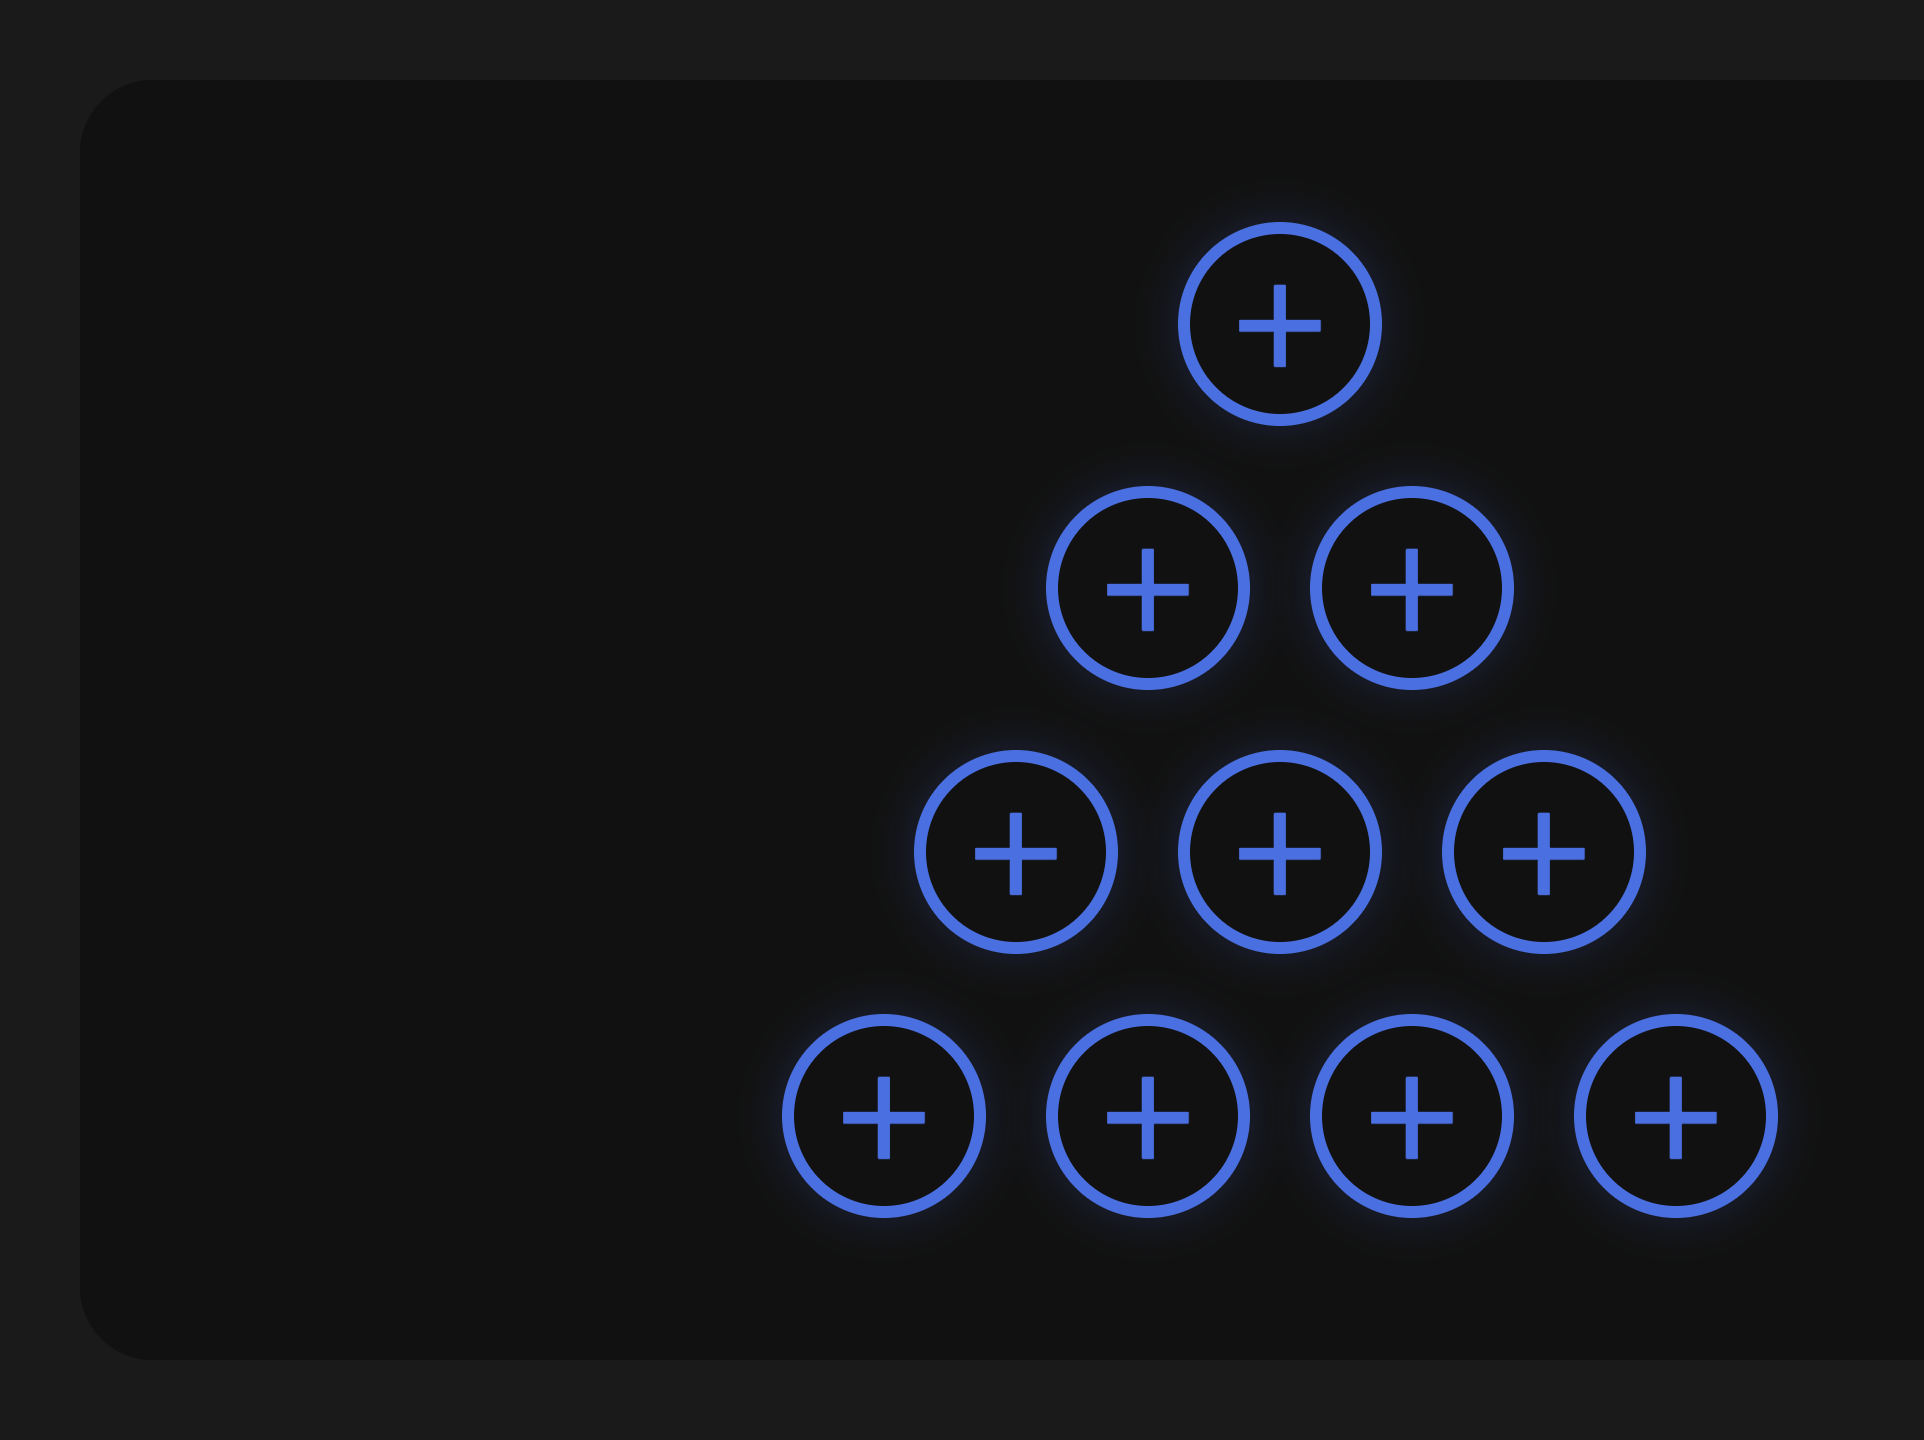
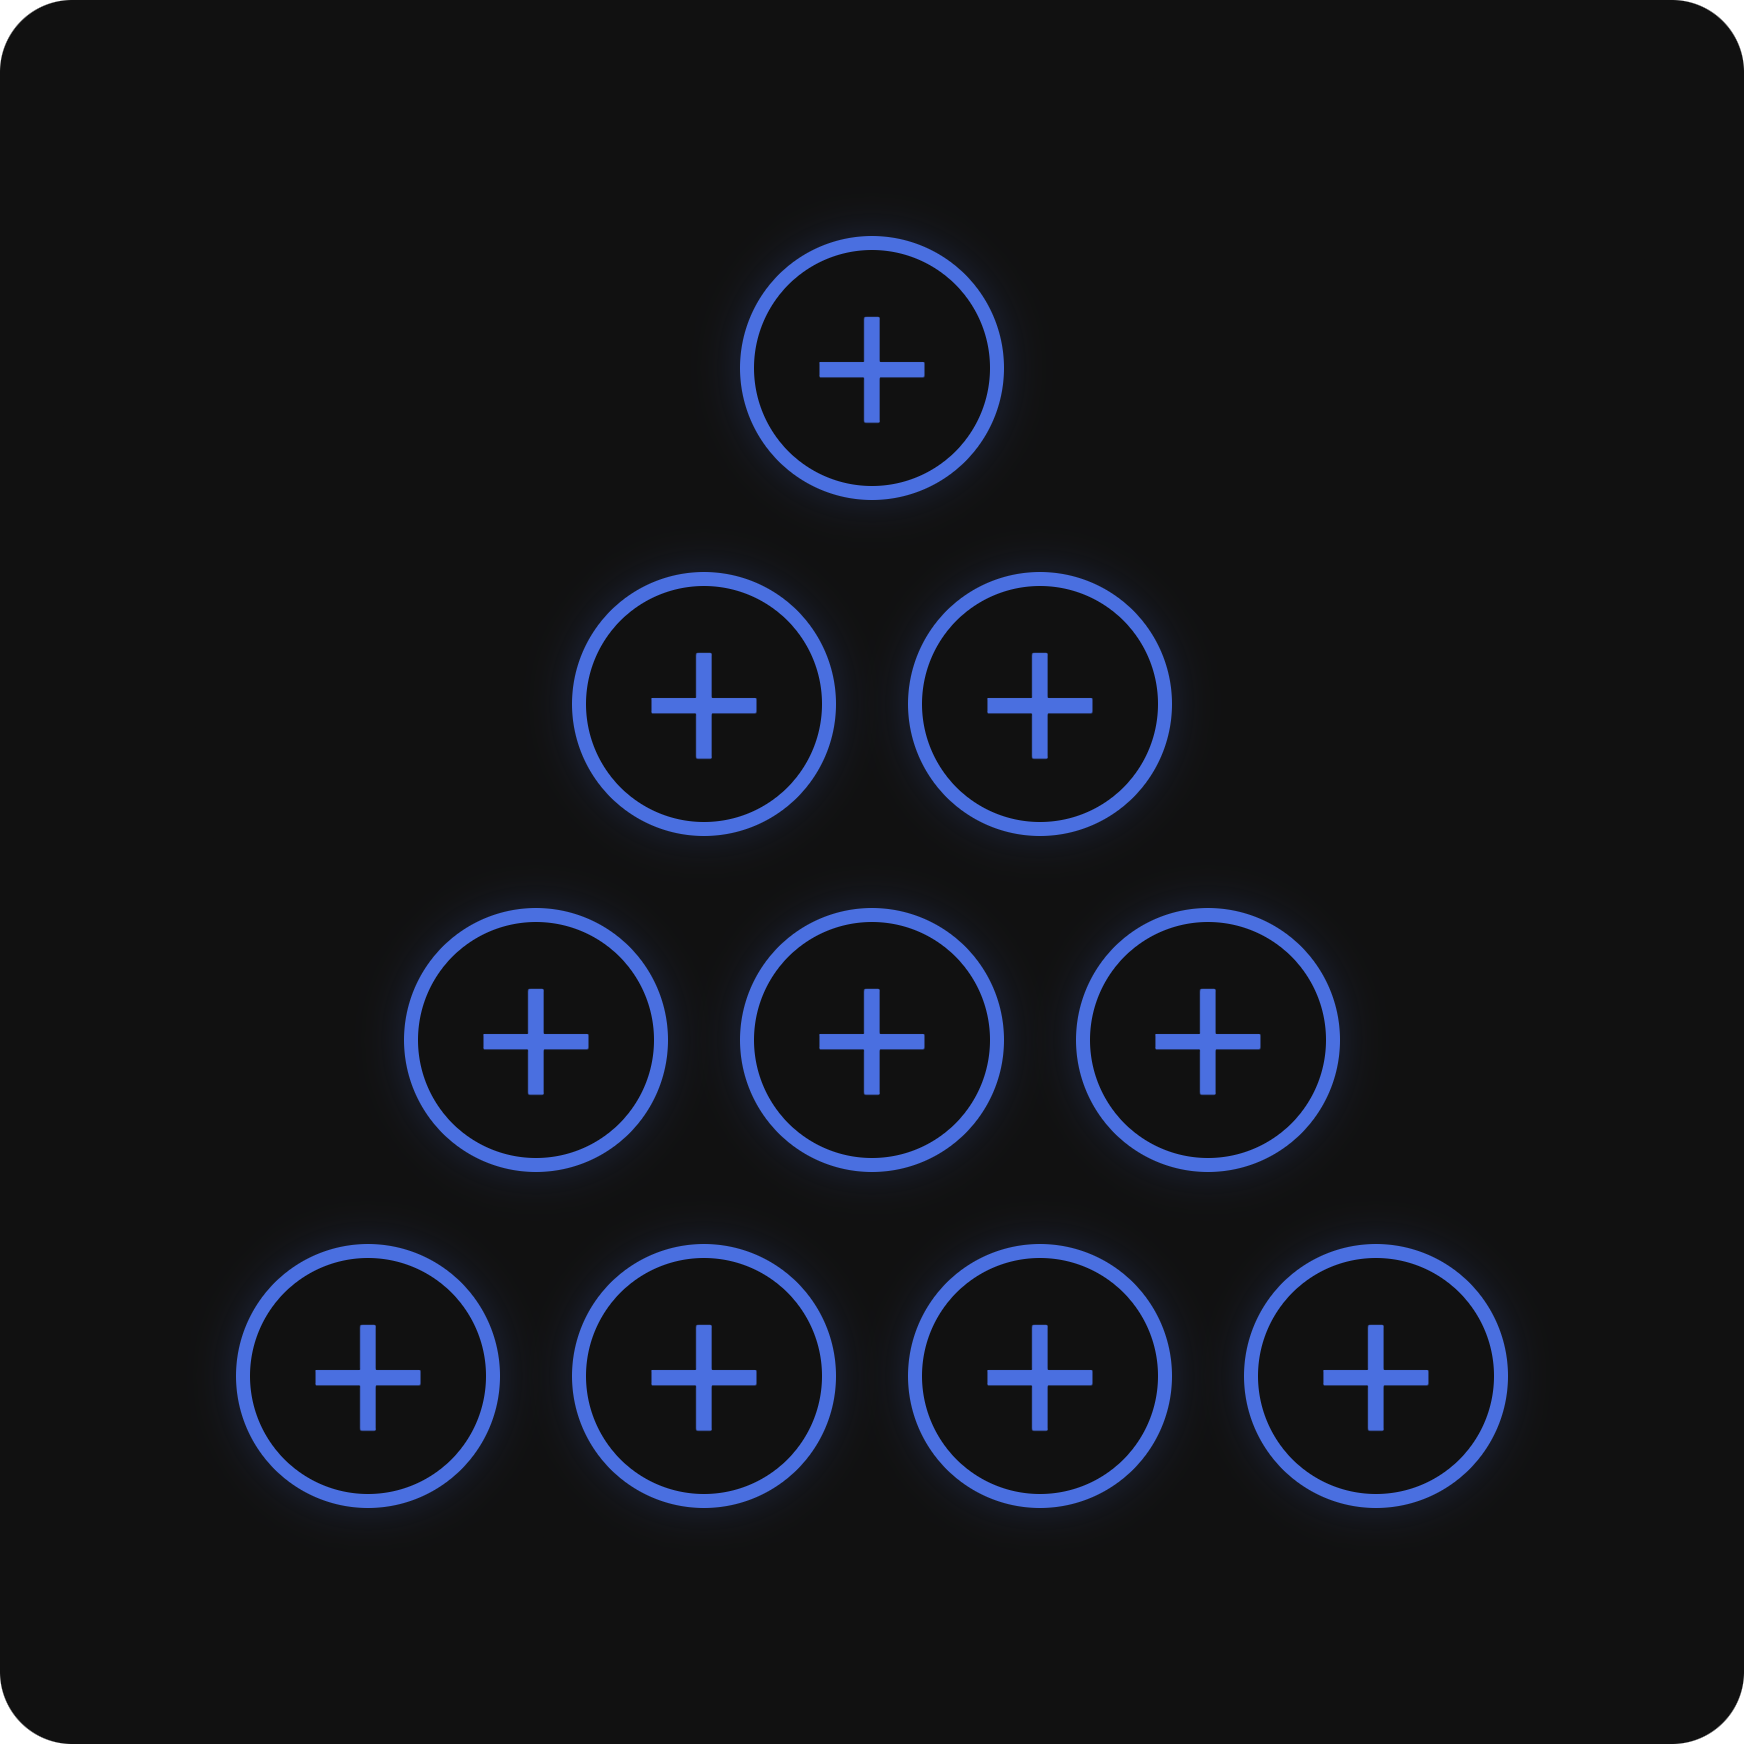
electric-charges Insight Card Collection Completed deploying for review 2

diff --git a/src/app/globals.css b/src/app/globals.css
@@ -367,11 +367,15 @@ a:hover {
 /* ── KATEX (math rendering) — recolor to the site's warm palette ── */
 .katex {
   color: var(--text-primary);
-  font-size: 1em;
+  font-size: 1.1em;
 }
 
+/* overflow-y: hidden clips glyphs that overshoot KaTeX's strut box (e.g. a
+   superscript's top), so part of the outer spacing moves into padding to
+   give them room inside the clip. Bottom spacing stays 1em overall. */
 .katex-display {
-  margin: 0.4em 0 1em 0;
+  margin: 0.15em 0 0.75em 0;
+  padding: 0.25em 0;
   overflow-x: auto;
   overflow-y: hidden;
 }

diff --git a/src/components/mdx/MDXComponents.module.css b/src/components/mdx/MDXComponents.module.css
@@ -72,7 +72,7 @@
 
 .blockquote p {
   font-style: italic;
-  color: var(--text-secondary);
+  /* color: var(--text-secondary); */
   margin-bottom: 0;
 }
 
